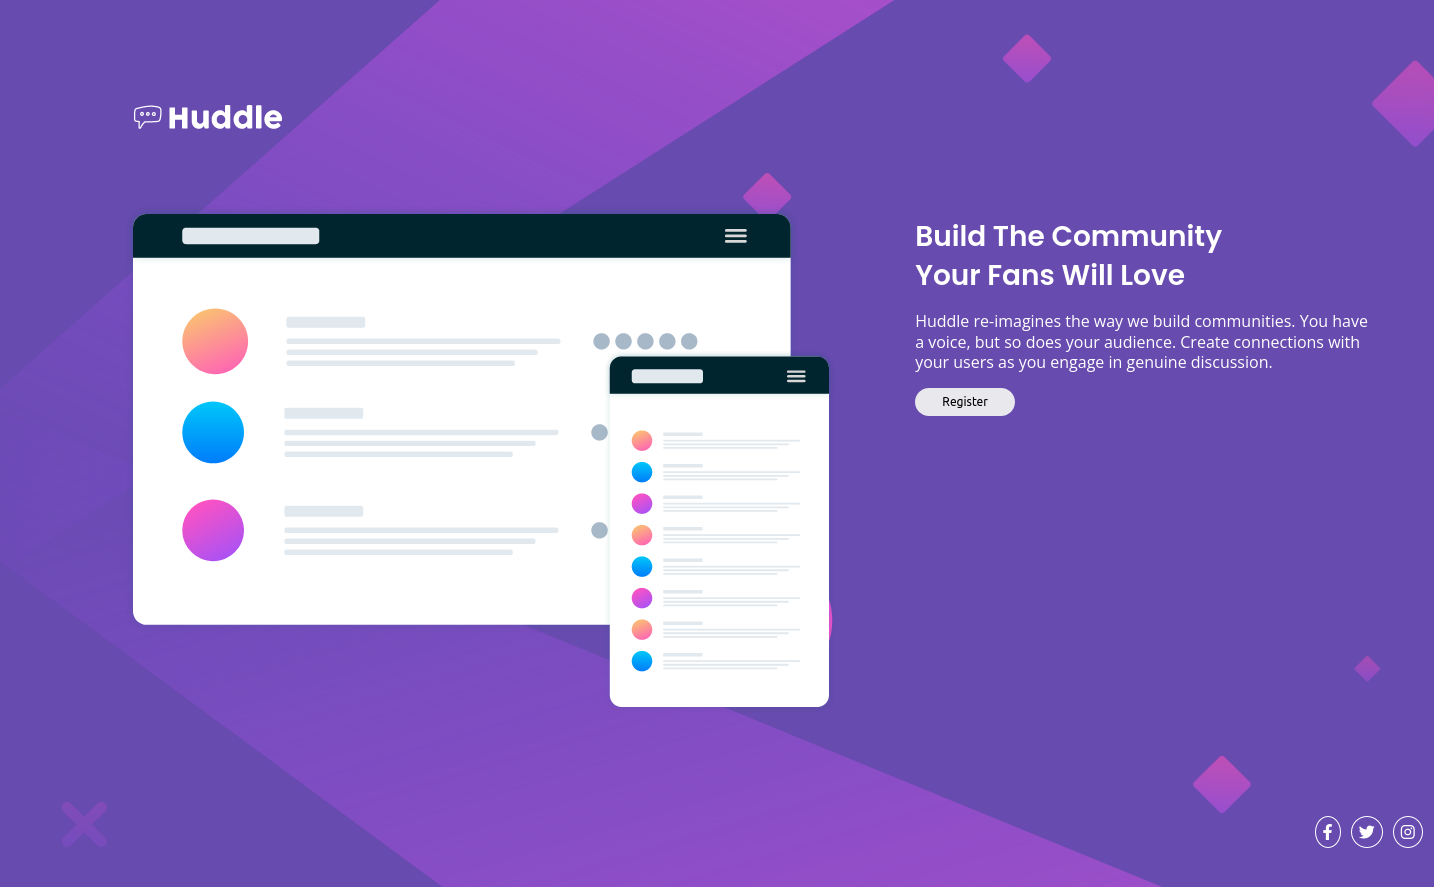
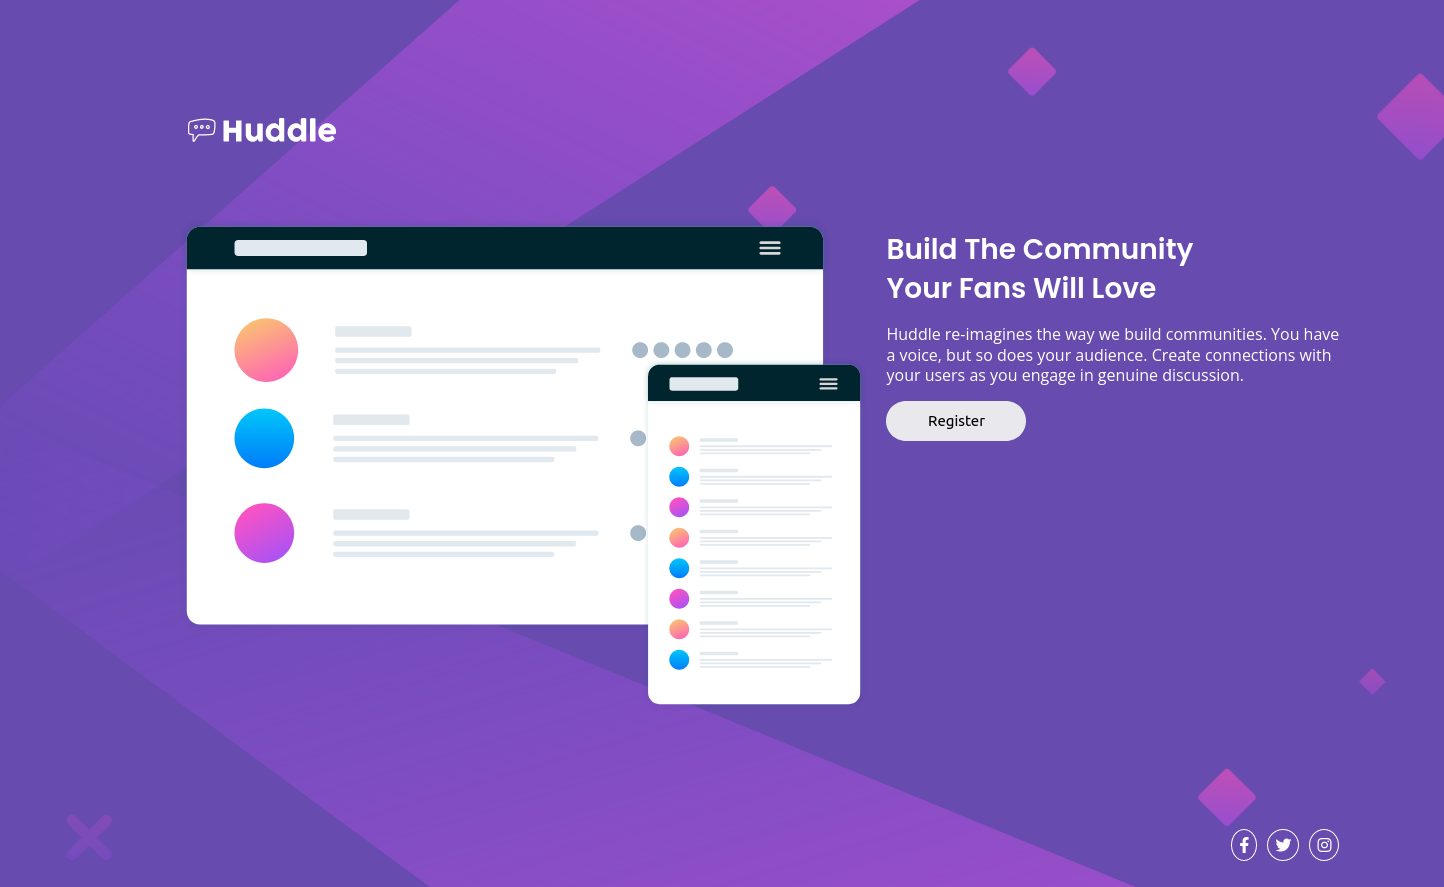
screenshot set

diff --git a/scss/style.scss b/scss/style.scss
@@ -188,12 +188,11 @@ footer {
   .container {
     background: $violet url("/images/bg-desktop.svg") no-repeat center/cover ;
     justify-content: center;
-    // background-position: center ;
   }
 
   main {
-    min-width: 90vw;
-    margin: 100px 0 30px 120px;
+    min-width: 80vw;
+    margin: 100px 20px 30px 100px;
     // background: red;
   }
 
@@ -217,20 +216,27 @@ footer {
 
       h1 {
         font-size: 28px;
-        margin: 0 150px 15px 0;
+        margin: 0 130px 15px 0;
         text-align: left;
       }
 
 
       p {
-        margin: 0px 50px 0px 0;
+        margin: 0px 0px 0px 0;
         font-size: 16px;
         text-align: left;
+      }
+
+      button {
+        width: 140px;
+        height: 40px;
+        font-size: 15px;
+        margin-top: 15px;
       }
     }
   }
   footer {
-    margin-top: 100px;
-    margin-bottom: 10px;
+    margin: 100px 50px 10px 0px;
+    // justify-content:center;
   }
 }

diff --git a/css/style.css b/css/style.css
@@ -147,8 +147,8 @@ footer {
     justify-content: center; }
 
   main {
-    min-width: 90vw;
-    margin: 100px 0 30px 120px; }
+    min-width: 80vw;
+    margin: 100px 20px 30px 100px; }
 
   .logo {
     margin: 10px 0 50px 0; }
@@ -164,15 +164,19 @@ footer {
       flex: 2; }
       .content section h1 {
         font-size: 28px;
-        margin: 0 150px 15px 0;
+        margin: 0 130px 15px 0;
         text-align: left; }
       .content section p {
-        margin: 0px 50px 0px 0;
+        margin: 0px 0px 0px 0;
         font-size: 16px;
         text-align: left; }
+      .content section button {
+        width: 140px;
+        height: 40px;
+        font-size: 15px;
+        margin-top: 15px; }
 
   footer {
-    margin-top: 100px;
-    margin-bottom: 10px; } }
+    margin: 100px 50px 10px 0px; } }
 
 /*# sourceMappingURL=style.css.map */
